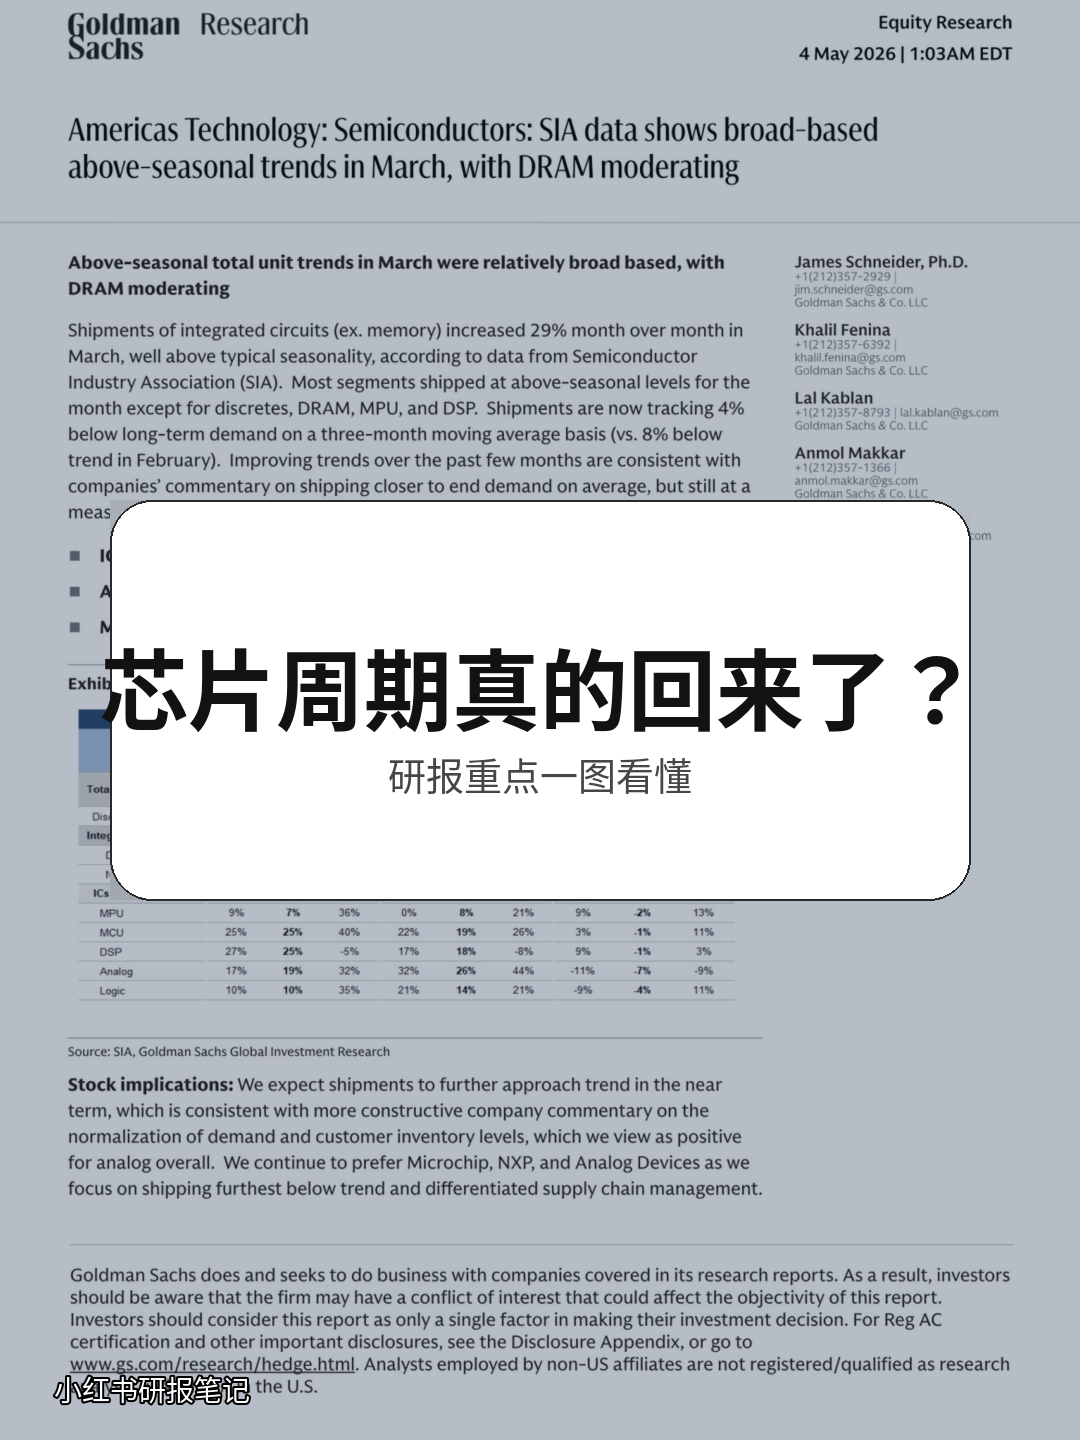
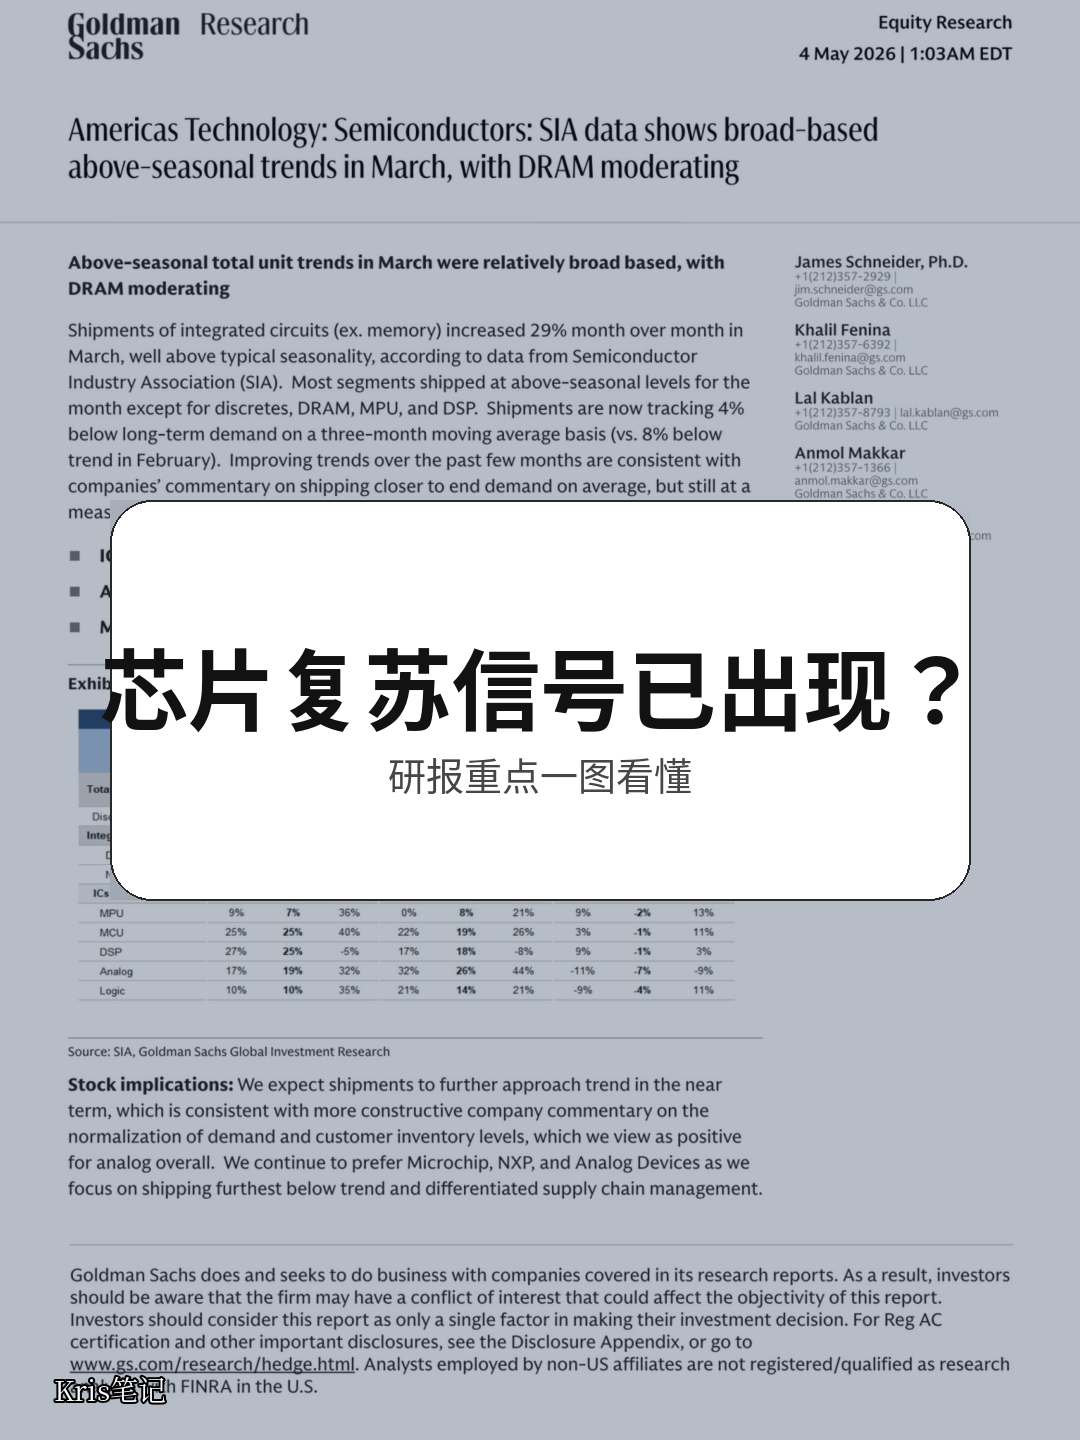
Generate Xiaohongshu and WeChat notes from PDFs

Changed region(s): [[0.2444, 0.4375, 0.825, 0.5312], [0.0306, 0.9375, 0.2444, 1.0]]

diff --git a/xhs_notes/Goldman-Sachs-Americas-Technology-Semiconductors-SIA-data-shows-broad-based-abov/wechat_article.md b/xhs_notes/Goldman-Sachs-Americas-Technology-Semiconductors-SIA-data-shows-broad-based-abov/wechat_article.md
@@ -1,43 +1,50 @@
-# 半导体复苏的“温差”：整体回暖，但有一个关键板块正在掉队
+# 半导体复苏正在“分化”：DRAM放缓，但这两个板块正在加速追赶
 
-三月的半导体行业数据，传递出一个既清晰又复杂的信号。
+3月的半导体出货数据，看起来是一份不错的成绩单。根据半导体行业协会（SIA）最新数据，整体半导体出货量环比增长20%，接近历史季节性水平。但这份“不错”的表象之下，结构性的分化正在加剧。
 
-根据半导体行业协会（SIA）最新发布的数据，2026年3月全球半导体出货量呈现出明显的超季节性增长。整体来看，集成电路（不含存储器）的出货量环比增长了29%，显著高于历史同期的平均增速。这似乎印证了市场对行业需求复苏的乐观预期。
+某外资投行最新研报指出，3月出货量的改善是“广泛但分化的”——部分板块正在快速追赶长期需求趋势，而另一些板块的环比动能却在减弱。对于关注半导体周期的投资者而言，这个信号值得认真对待。
 
-然而，在这份看似全面的回暖图景下，有一个细分领域的数据表现出了与整体趋势截然不同的节奏——DRAM的出货量环比仅增长5%，低于历史同期9%的季节性水平。这种“温差”意味着什么？是阶段性的库存调整，还是需求结构正在发生更深层次的变化？
+
+![研报图表 1](assets/xhs_card_01.png)
 
 ## 一、这份研报真正值得看什么
 
-某外资投行的最新研报，并非简单罗列行业数据。它的核心问题意识在于：半导体行业正在从“去库存”走向“需求正常化”，但不同细分赛道的复苏节奏和驱动力已经出现明显分化。
+市场对半导体周期的讨论，过去几个月一直围绕着“库存何时见底”和“需求何时正常化”展开。但这份研报的价值在于，它提供了一个更精细的观察框架：不是看总量，而是看每个细分板块距离长期需求趋势还有多远。
 
-研报指出，以三个月移动平均线衡量，当前集成电路（不含存储器）的出货量已从2月份低于长期趋势8%的水平，收窄至低于趋势4%。这意味着行业整体正在逐步接近终端真实需求。但更值得关注的是，这种改善并非均匀分布——模拟芯片、MCU、逻辑芯片等板块的改善速度和幅度各不相同。
+研报的核心问题很明确：哪些板块的复苏是真实的、可持续的？哪些板块的环比改善只是暂时的季节性波动？答案隐藏在三个关键指标中——出货量相对于长期趋势的偏离程度、环比增速是否超过历史均值，以及ASP（平均销售价格）的变化方向。
 
-对于投资者而言，当下的关键已不再是“行业是否复苏”，而是“哪些板块的复苏具备可持续性，哪些可能只是库存回补的短期脉冲”。
+截至3月，集成电路（不含存储）出货量的三个月移动平均线，已从2月低于长期趋势8%收窄至低于趋势4%。这意味着，整个行业正在以“谨慎但持续”的节奏向正常化迈进。但真正值得关注的，是各细分板块之间的步调差异。
+
+
+![研报图表 2](assets/xhs_card_02.png)
 
 ## 二、关键变化不在表面
 
-研报中几个数据点值得深入拆解。
+**模拟芯片正在快速追赶。** 3月模拟芯片出货量环比增长32%，显著高于历史同期均值。更重要的是，其出货量距离长期趋势的差距已从1月的低于趋势6.5%收窄至仅低于2.0%。这是研报中最为积极的信号之一。模拟芯片通常被视为半导体需求的基础性指标，它的改善往往意味着工业、汽车等终端市场的真实需求正在回暖。
 
-第一个关键信号来自模拟芯片。3月份模拟芯片出货量环比增长32%，大幅高于历史季节性水平，且其出货量距离长期趋势线已从1月份的低于趋势6.5%收窄至2%。研报认为，这与多家模拟芯片公司管理层“出货正在接近终端需求”的表述一致。但值得注意的是，改善的速度是“审慎的”，并非爆发式反转。
+**MCU（微控制器）仍在深水区。** 尽管3月MCU出货量环比增长22%，略高于历史季节性水平，但其出货量仍低于长期趋势26%。这是所有细分板块中距离趋势最远的一个。研报对此的解读是：MCU的库存消化尚未完成，改善速度相对缓慢。这与模拟芯片形成了鲜明对比。
 
-第二个值得关注的板块是MCU。尽管3月MCU出货量环比增长22%，高于历史季节性，但其出货量仍低于长期趋势26%。这个数字背后隐含的信息是：MCU的去库存周期远未结束，尤其是工业与汽车领域的终端需求恢复尚需时日。研报明确将MCU列为“出货距离趋势最远的品类之一”。
+**DRAM的环比动能正在减弱。** 这是研报中一个容易被忽视但关键的变化。3月DRAM出货量环比仅增长5%，低于历史季节性水平的9%。在存储芯片价格仍然高企的背景下，出货量的环比放缓可能暗示下游客户正在重新评估库存策略。NAND则表现强劲，出货量环比增长15%，远超历史均值。
 
-第三个结构性变化来自存储器内部的分化。NAND表现强劲，出货量环比增长15%，高于季节性水平；而DRAM则明显疲软，出货量环比仅增5%，低于9%的历史均值。这种分化可能反映出不同下游应用领域的库存水位差异——服务器与PC端的DRAM库存消化速度或许慢于预期。
+这三个板块的不同表现，指向同一个结论：半导体周期的复苏不是线性的，也不是同步的。对于投资者而言，识别出哪些板块的改善具有结构性支撑，哪些只是暂时性的反弹，比关注总量数据更重要。
+
+
+![研报图表 3](assets/xhs_card_03.png)
 
 ## 三、还有哪些问题值得继续追踪
 
-这篇研报的价值不仅在于对过去一个月数据的解读，更在于它提出了几个需要持续跟踪的关键问题。
+这份研报的另一个价值在于，它提出了几个值得持续跟踪的问题，但并未在报告中完全展开。
 
-第一个问题是：模拟芯片的持续改善能否维持？研报倾向于认为短期出货会进一步接近趋势，但“审慎”的措辞暗示，一旦终端需求没有如期跟进，库存回补可能很快转为压力。
+第一，出货量改善的可持续性。3月的环比改善部分得益于季节性因素，但研报判断“出货量将进一步接近趋势”。这个判断成立的前提是什么？哪些风险因素可能导致改善中断？
 
-第二个问题是：DRAM的疲软是暂时现象还是趋势拐点？如果DRAM出货持续低于季节性，可能意味着数据中心客户正在调整采购节奏，这将对整个存储器产业链产生连锁反应。
+第二，ASP下降的隐含信号。3月模拟芯片和逻辑芯片的ASP分别环比下降11%和9%，均低于历史季节性均值。ASP的走软是否意味着竞争加剧，还是正常的去库存过程中的价格调整？
 
-第三个问题隐藏在研报的股票推荐逻辑中：该外资投行更看好那些“出货距离趋势最远、且供应链管理差异化”的公司。具体哪些公司符合这一标准？研报中提及的Microchip、NXP、Analog Devices，各自的出货偏离度与库存健康度究竟如何？这些细节在完整报告中均有详尽图表支撑。
+第三，研报在结论部分明确提到了对Microchip、NXP、Analog Devices的偏好，理由是“出货量最低于趋势”和“差异化的供应链管理”。这三家公司的基本面差异在哪里？为什么“出货量低于趋势”反而成为看好的理由？
+
+这些问题的详细分析，以及研报中完整的趋势图、环比数据对比和个股逻辑推导，都在我们的完整解读中。
 
 ## 加入社群阅读全文
 
-以上分析仅基于公开研报的核心逻辑。关于模拟芯片、MCU、DRAM三大板块的完整数据对比、月度趋势图表，以及该外资投行对具体标的的估值与推荐逻辑，均在完整版研报解读中呈现。
-
-加入社群，领取完整研报解读与原始图表。
+以上是对某外资投行最新半导体研报的初步解读。完整的报告解读包括：各细分板块的长期趋势偏离度动态图表、ASP与出货量的交叉分析、以及三家重点公司的逻辑对比。加入社群，领取完整研报解读与原始图表。
 
 *本文仅作学习交流，不构成任何投资建议。*

diff --git a/xhs_notes/Goldman-Sachs-Americas-Technology-Semiconductors-SIA-data-shows-broad-based-abov/note.md b/xhs_notes/Goldman-Sachs-Americas-Technology-Semiconductors-SIA-data-shows-broad-based-abov/note.md
@@ -1,34 +1,26 @@
-芯片周期真的回来了？3月数据全解析
+芯片复苏信号已出现？3月数据全解析
 
-📊周期信号确认
+复苏信号来了
 
-一句话结论：3月全球半导体出货量全面超季节性，库存去化接近尾声，周期复苏信号进一步增强。
+3月半导体数据超季节性增长
 
-1/ 核心数据亮眼
-3月IC（不含存储）环比增长29%，远超历史平均的20%。3个月移动平均已从2月的低于趋势8%收窄至4%，改善速度超预期。模拟芯片更是从1月的低于趋势6.5%大幅修复至仅低于2%。
+一句话结论：3月半导体出货量全面超季节性，芯片复苏趋势确认，但DRAM开始降温，板块分化加剧。
 
-2/ 结构分化需警惕
-DRAM出货环比仅增5%，低于历史均值9%，出现明显降温。而NAND环比增15%超预期，存储内部开始分化。MCU仍低于趋势26%，是修复最慢的板块。
+1/ 整体芯片（不含存储）3月出货量环比暴增29%，远超历史同期的20%均值。目前出货量只比长期需求趋势低4%（2月还是低8%），改善速度肉眼可见。这意味着芯片库存去化接近尾声，终端需求正在回归。
 
-3/ 分析师怎么看
-某外资投行认为，出货正在向终端需求靠拢，但改善速度是“有节制的”。他们更看好模拟芯片整体，重点推荐Microchip、NXP、ADI——核心逻辑是：这些公司出货离趋势最远、供应链管理有差异化优势。
+2/ 模拟芯片是最大亮点！出货量环比飙升32%，高于历史26%的均值，距离长期趋势仅差2%（1月还差6.5%）。某外资投行明确看好模拟板块，点名Microchip、NXP和ADI这三家，因为它们出货量离趋势线最远、库存管理最牛。
 
-⚠我最想提醒你的一点：
-别被“29%增长”冲昏头。这个高环比是因为1-2月基数太低。真正要看的是3个月移动平均——目前仍低于长期趋势4%，说明需求还没回到正常水平。DRAM的放缓尤其值得警惕，可能意味着AI驱动的存储需求开始降温。
+3/ DRAM开始掉队了。3月出货量环比仅增5%，低于历史9%的均值，是少数几个低于季节性的细分领域。NAND倒是不错，环比增15%超季节性。存储内部也在分化。
 
-❓评论区聊聊：
-你觉得这轮芯片复苏是真回暖还是假反弹？MCU低于趋势26%这个数据，是不是说明工业/汽车需求还在底部？
+⚠ 我最想提醒的一点：别光看整体数据好看就冲进去。MCU（微控制器）依然比趋势低26%，虽然环比改善但绝对水平还是很差。买芯片股要看具体赛道，模拟>存储>逻辑，MCU还得再等等。
 
-⚠非投资建议，仅作学习交流
+评论区提问：你觉得这轮芯片复苏是V型反转还是L型磨底？模拟芯片还能涨多少？留言聊聊👇
 
-#研报解读 #投资学习 #财经 #半导体周期 #芯片行业 #模拟芯片 #存储芯片
+非投资建议，仅作学习交流。
 
-【配图建议】
-第2张图：IC units ex. Memory趋势图（Exhibit 2）
-配文：“IC出货量3个月移动平均，正从低谷逐步爬升”
+#研报解读 #投资学习 #财经 #小红书笔记 #半导体 #芯片 #模拟芯片 #DRAM #库存周期
 
-第3张图：模拟芯片出货环比图（Exhibit 5）
-配文：“模拟芯片3月环比暴增32%，远超季节性”
-
-第4张图：DRAM出货环比图（Exhibit 8）
-配文：“DRAM环比仅增5%，低于季节性，存储开始分化”
+配图建议：
+第2张图：用Exhibit 3（IC units ex. memory环比变化图），配文“3月IC出货量环比+29%，远超季节性”
+第3张图：用Exhibit 5（Analog units环比变化图），配文“模拟芯片环比+32%，复苏领头羊”
+第4张图：用Exhibit 8（DRAM units环比变化图），配文“DRAM环比仅+5%，低于季节性，需警惕”
